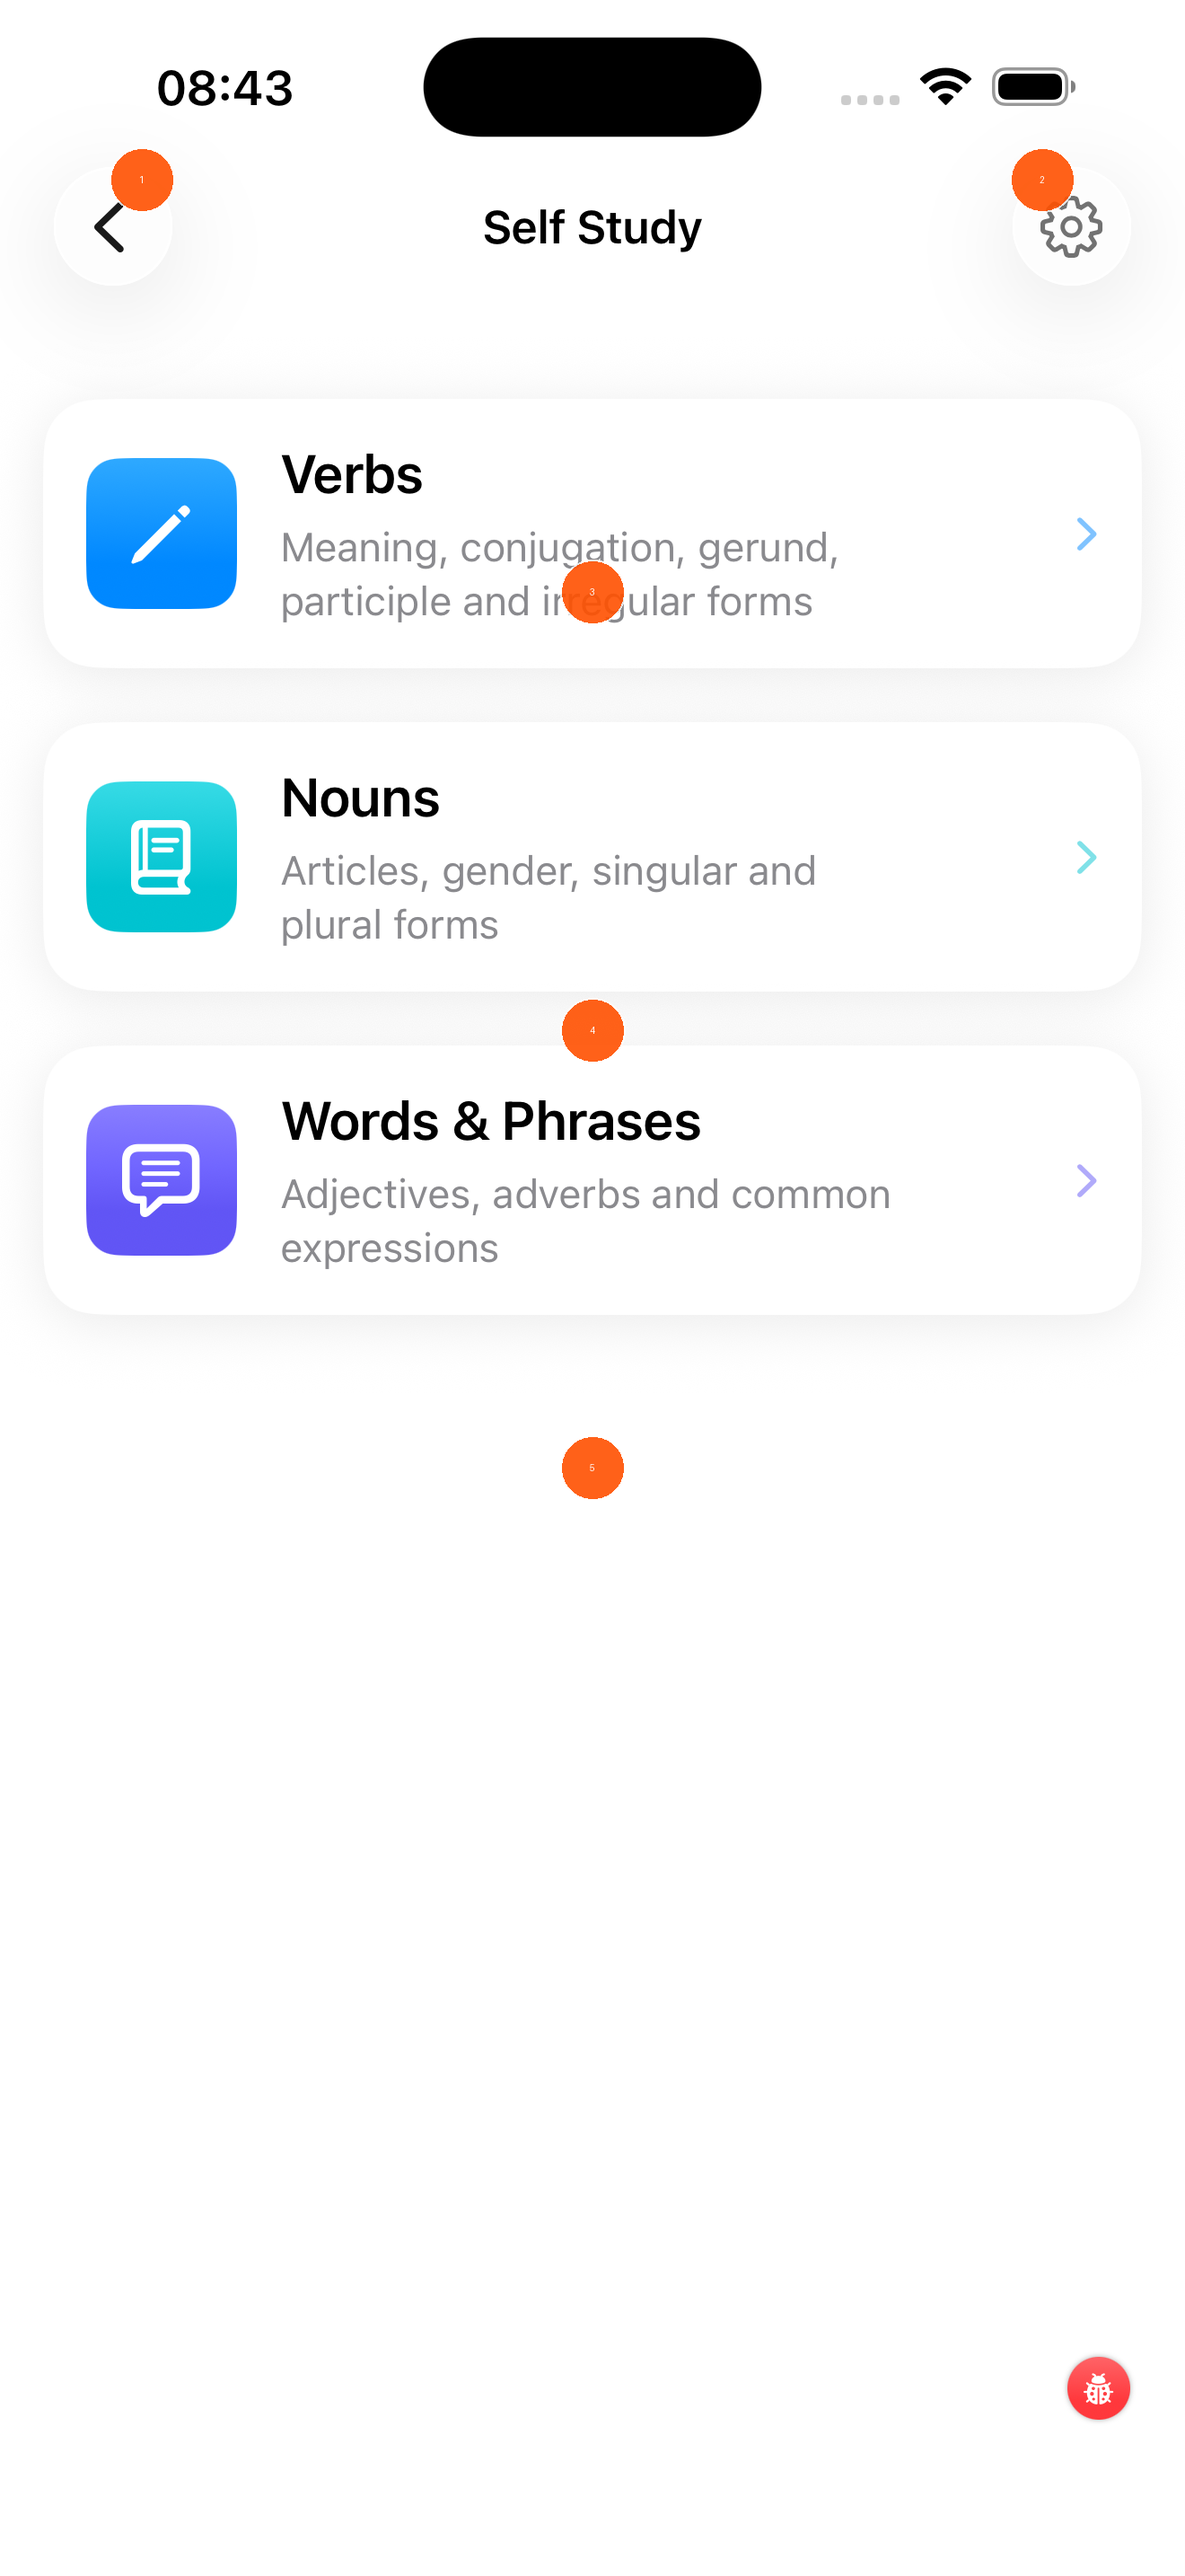
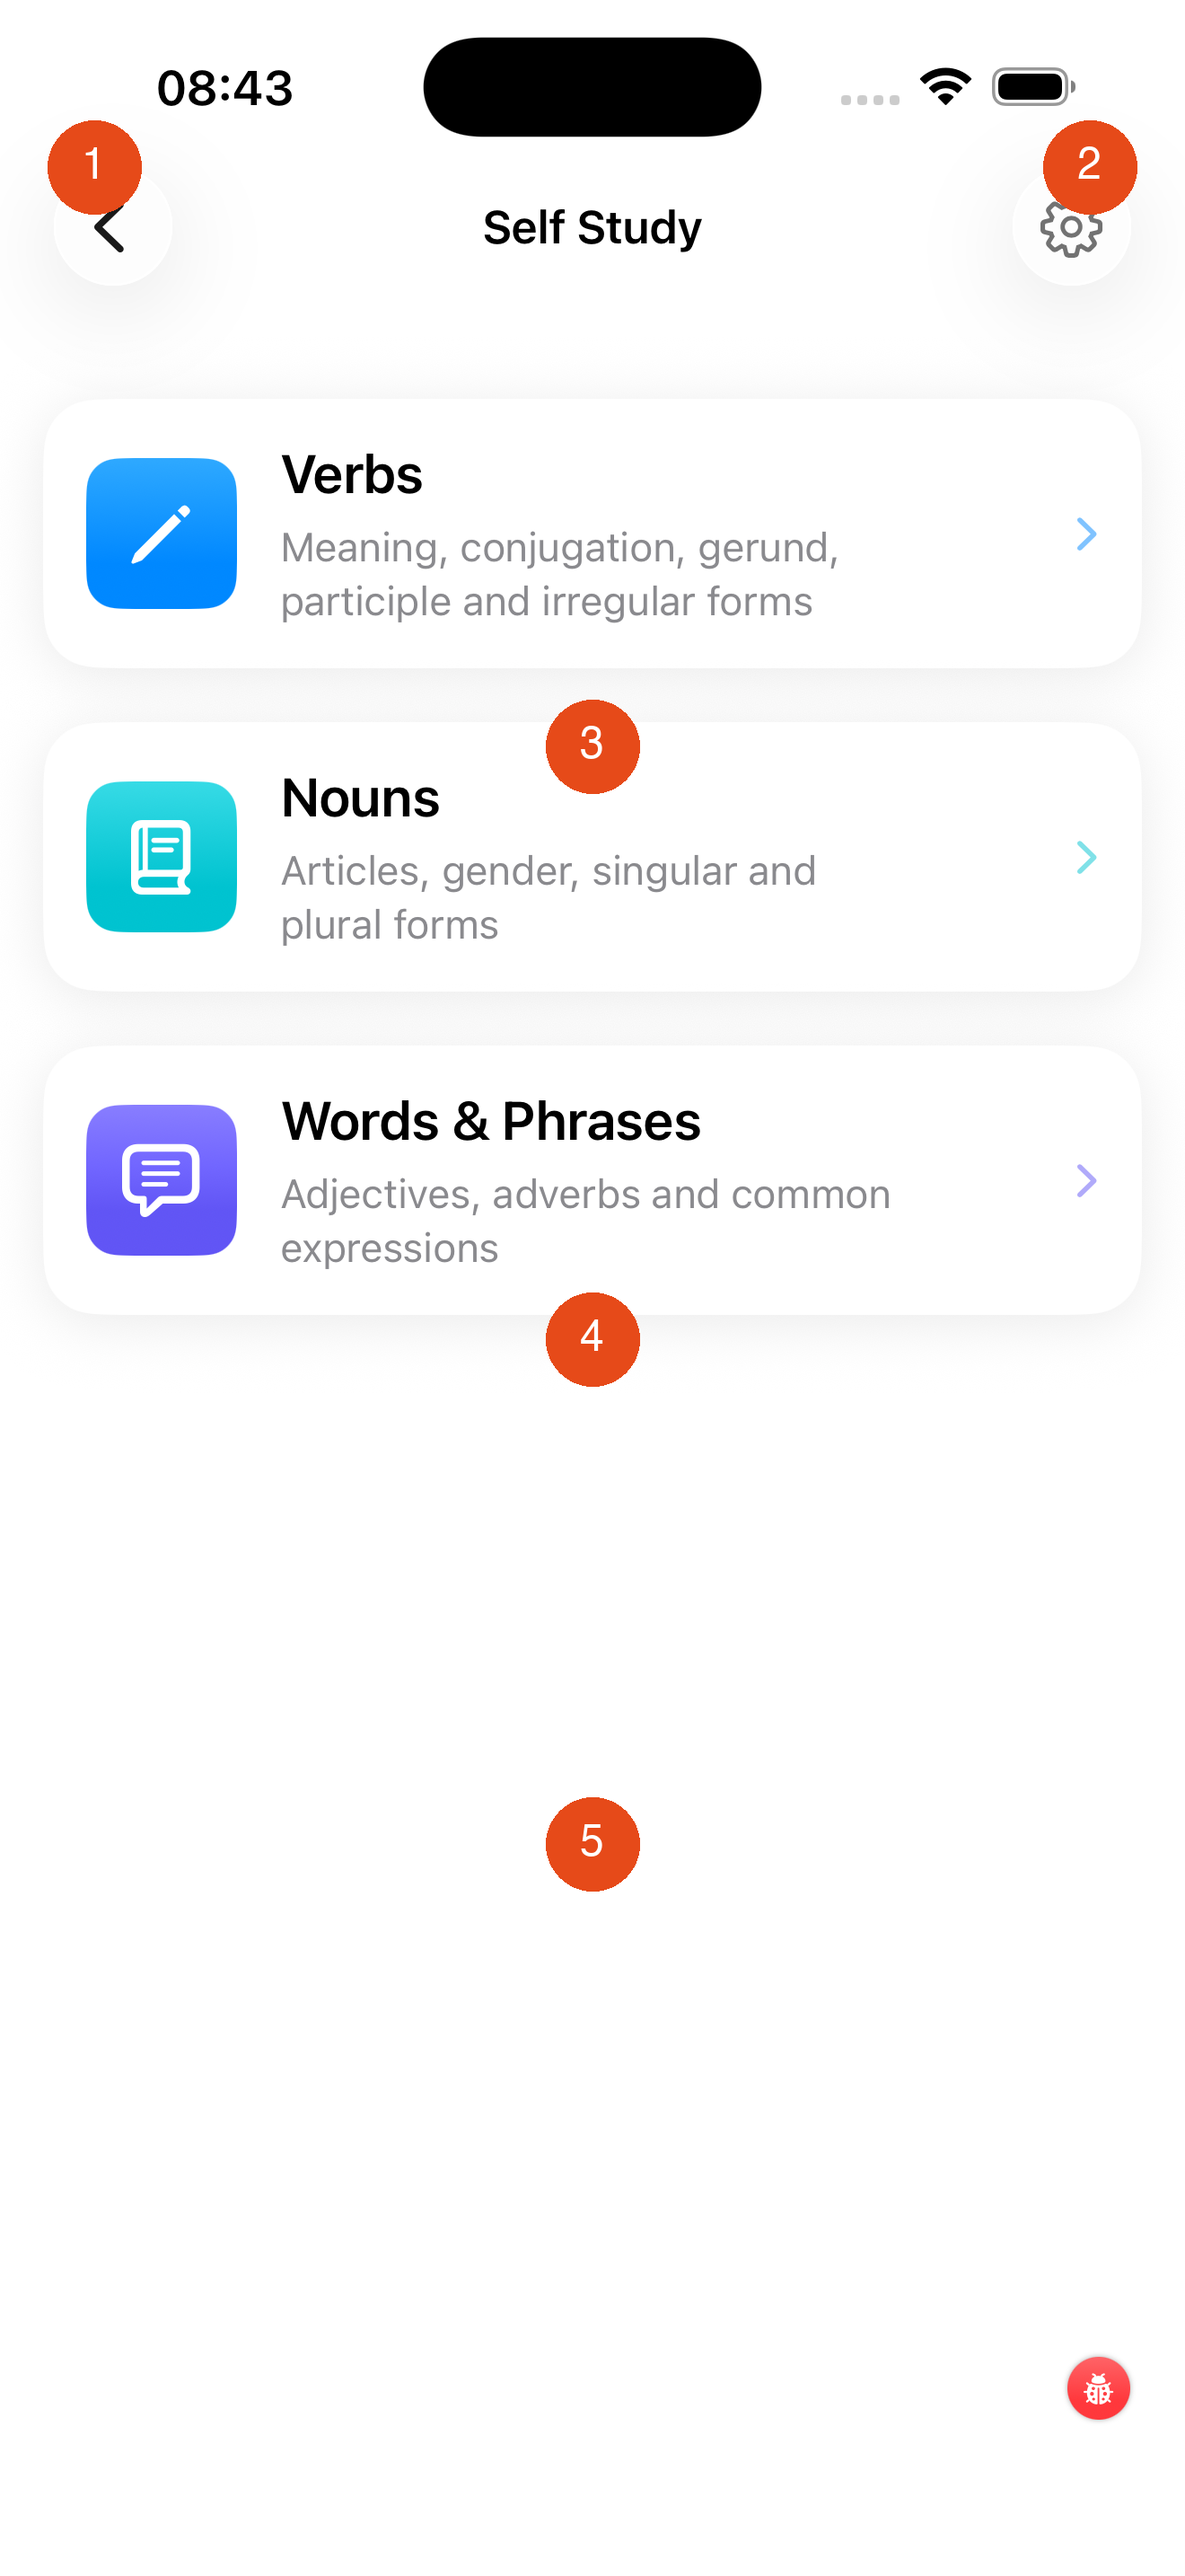
Link User Guide to GitBook, add custom domain

diff --git a/WORKFLOW.md b/WORKFLOW.md
@@ -1,0 +1,185 @@
+# Website Update Workflow
+
+This document describes the end-to-end process for updating the Spanish Coach website — from new screenshots through local testing to publishing on GitHub Pages.
+
+---
+
+## Overview
+
+```
+New screenshots
+      ↓
+Update annotate.py
+      ↓
+Run annotate.py  →  annotated images in docs/assets/images/guide/
+      ↓
+Update user guide pages (if needed)
+      ↓
+Test locally with mkdocs serve
+      ↓
+Commit & push → GitHub Actions rebuilds the site
+```
+
+---
+
+## Step 1 — Add new screenshots
+
+Place screenshots in the correct folder under:
+
+```
+~/Documents/spanish-coach-website/Screenshots/
+```
+
+Follow the existing folder structure, for example:
+
+```
+Screenshots/
+  Spanish Coach.png
+  Spanish Coach/
+    Self Study/
+      Self Study.png
+      Verbs/
+        Verbs Coach.png
+        Setup/
+          Select verbs/
+            ...
+```
+
+---
+
+## Step 2 — Update annotate.py
+
+Open:
+
+```
+/Users/hans/Xcode/Spanish Coach/UtilitiesForSpanishCoach/src/Pictures/annotate.py
+```
+
+**If adding a new screen**, add an entry to both `FILES` and `ANNOTATIONS`:
+
+```python
+# In FILES:
+"my-new-screen":
+    "Spanish Coach/Path/To/Screenshot.png",
+
+# In ANNOTATIONS:
+"my-new-screen": [
+    (0.08, 0.200, 1),   # describe what this points to
+    (0.92, 0.200, 2),   # describe what this points to
+],
+```
+
+**If a screenshot moved**, update the path in `FILES`.
+
+### Finding the right label positions
+
+Use the interactive label placer:
+
+1. Open in your browser:
+   ```
+   /Users/hans/Xcode/Spanish Coach/UtilitiesForSpanishCoach/src/Pictures/label-placer.html
+   ```
+2. Load the screenshot
+3. Click to place numbered labels
+4. Copy the output and paste it into the `ANNOTATIONS` dict in `annotate.py`
+
+---
+
+## Step 3 — Run annotate.py
+
+In Terminal:
+
+```bash
+cd "/Users/hans/Xcode/Spanish Coach/UtilitiesForSpanishCoach/src/Pictures"
+.venv/bin/python annotate.py
+```
+
+Annotated images are written to:
+
+```
+~/Documents/spanish-coach-website/docs/assets/images/guide/
+```
+
+The script prints `✓ filename.png` for each success and `✗ MISSING: path` for any source file it cannot find.
+
+---
+
+## Step 4 — Update the user guide (if needed)
+
+User guide pages live in:
+
+```
+~/Documents/spanish-coach-website/docs/user-guide/
+```
+
+If you added a new screen or changed label positions/count, update the corresponding `.md` file:
+
+- The `<img src="...">` tag should reference the correct output filename
+- The numbered list must match the labels in the image (same count, same order)
+
+If you added a brand new page, also add it to the `nav:` section in `mkdocs.yml`.
+
+---
+
+## Step 5 — Test locally
+
+Start the local preview server:
+
+```bash
+cd ~/Documents/spanish-coach-website
+mkdocs serve
+```
+
+Open your browser at **http://127.0.0.1:8000/spanish-coach-website/**
+
+The server live-reloads when you save any `.md` file. Images do **not** live-reload automatically — do **Cmd + Shift + R** in the browser after running `annotate.py` to force a refresh.
+
+Stop the server with **Ctrl + C**.
+
+---
+
+## Step 6 — Commit and push to GitHub
+
+When everything looks good locally:
+
+```bash
+cd ~/Documents/spanish-coach-website
+
+# Stage everything
+git add .
+
+# Commit with a descriptive message
+git commit -m "Describe what you changed"
+
+# Push
+git push origin main
+```
+
+GitHub Actions will automatically rebuild and deploy the site. Allow about 1–2 minutes, then check the live site at:
+
+**https://jjabakker.github.io/spanish-coach-website/**
+
+---
+
+## Quick reference
+
+| Task | Command |
+|---|---|
+| Run annotation script | `cd "/Users/hans/Xcode/Spanish Coach/UtilitiesForSpanishCoach/src/Pictures" && .venv/bin/python annotate.py` |
+| Start local preview | `cd ~/Documents/spanish-coach-website && mkdocs serve` |
+| Force browser refresh | **Cmd + Shift + R** |
+| Commit and push | `git add . && git commit -m "message" && git push origin main` |
+| Label placer tool | Open `label-placer.html` in browser |
+
+---
+
+## File locations
+
+| What | Where |
+|---|---|
+| Source screenshots | `~/Documents/spanish-coach-website/Screenshots/` |
+| Annotated output images | `~/Documents/spanish-coach-website/docs/assets/images/guide/` |
+| User guide pages | `~/Documents/spanish-coach-website/docs/user-guide/` |
+| Annotation script | `~/Xcode/Spanish Coach/UtilitiesForSpanishCoach/src/Pictures/annotate.py` |
+| Label placer | `~/Xcode/Spanish Coach/UtilitiesForSpanishCoach/src/Pictures/label-placer.html` |
+| Site config | `~/Documents/spanish-coach-website/mkdocs.yml` |

diff --git a/docs/user-guide/main-screen.md b/docs/user-guide/main-screen.md
@@ -1,17 +1,11 @@
-# Main Screen
+# Spanish Coach
 
-When you open Spanish Coach you land on the main screen. From here you choose your learning path.
+When you open the app  you land on this main screen. From here you choose your learning path.
 
 <div class="screenshot-annotated">
-<img src="../../assets/images/guide/spanish-coach-main-screen.png" alt="Spanish Coach Main Screen">
+<img src="../../assets/images/guide/spanish-coach.png" alt="Spanish Coach Main Screen">
 </div>
 
-1. **Progress & statistics** — tap to see your learning history, streaks, and performance charts
-2. **Learning history** — browse your past sessions and results
-3. **Settings** — adjust app preferences, notifications, and account details
-4. **Reference library** — quick access to reference material
-5. **Self Study** — practice at your own pace; choose which verbs, nouns, or phrases to focus on. Tap to enter.
-6. **Guided Lessons** — follow a structured path that builds vocabulary and grammar step by step. Tap to enter.
 
 ---
 
@@ -21,5 +15,11 @@ When you open Spanish Coach you land on the main screen. From here you choose yo
 |---|---|
 | **Self Study** | You know what you want to practise — specific verb tenses, topics, or vocabulary groups |
 | **Guided Lessons** | You want a structured programme that decides what to study next for you |
+
+
+
+At the top of the screen you see icons, on the right to change user setttings and to diplay online help, on the left icon(s) to review leaning performance data.
+
+
 
 [Next: Self Study →](self-study.md){ .md-button }

diff --git a/docs/user-guide/index.md b/docs/user-guide/index.md
@@ -1,17 +1,7 @@
 # User Guide
 
-Welcome to the Spanish Coach user guide. These pages walk you through every screen in the app with annotated screenshots so you know exactly what each button, swipe, and section does.
+The Spanish Coach User Guide is hosted on GitBook.
 
----
+[Open User Guide →](https://spanish-coach.gitbook.io/spanish-coach-docs/){ .md-button .md-button--primary }
 
-## Contents
-
-- [Main Screen](main-screen.md) — the two learning paths: Self Study and Guided Lessons
-- [Self Study](self-study.md) — choose between Verbs, Nouns, and Words & Phrases
-- [Verbs Coach](verbs-coach.md) — setup, study tools, and all test types
-- [Selecting Verbs](select-verbs.md) — filter and customise your verb set
-
----
-
-!!! tip "How to read the annotations"
-    Each screenshot has orange numbered circles **①②③** pointing to key UI elements. The numbered list below each screenshot explains what each one does.
+<script>window.location.href = "https://spanish-coach.gitbook.io/spanish-coach-docs/";</script>

diff --git a/docs/user-guide/self-study.md b/docs/user-guide/self-study.md
@@ -3,14 +3,13 @@
 The Self Study screen lets you choose what type of vocabulary or grammar you want to practise.
 
 <div class="screenshot-annotated">
-<img src="../../assets/images/guide/self-study-screen.png" alt="Self Study Screen">
+<img src="../../assets/images/guide/self-study.png" alt="Self Study Screen">
 </div>
 
-1. **Back** — returns to the main screen
-2. **Settings** — app and session preferences
-3. **Verbs** — practise verb meanings, conjugation, gerund, participle, and irregular forms. [Learn more →](verbs-coach.md)
-4. **Nouns** — practise articles, gender, singular and plural forms
-5. **Words & Phrases** — practise adjectives, adverbs, and common expressions
+1. **Verbs** — practise verb meanings, conjugation, gerund, participle, and irregular forms. [Learn more →](verbs-coach.md)
+2. **Nouns** — practise articles, gender, singular and plural forms
+3. **Words & Phrases** — practise adjectives, adverbs, and common expressions
+4. **Settings** — app and session preferences
 
 ---
 

diff --git a/docs/screenshots.md b/docs/screenshots.md
@@ -9,13 +9,13 @@ A visual tour of Spanish Coach — every major screen in the app.
 <div class="screenshot-gallery">
 
 <div class="screenshot-item">
-<img src="assets/images/guide/spanish-coach-main-screen.png" alt="Main Screen">
+<img src="assets/images/guide/spanish-coach.png" alt="Main Screen">
 <strong>Main Screen</strong>
 <p>Your starting point — tap any section to begin studying.</p>
 </div>
 
 <div class="screenshot-item">
-<img src="assets/images/guide/self-study-screen.png" alt="Self Study">
+<img src="assets/images/guide/self-study.png" alt="Self Study">
 <strong>Self Study</strong>
 <p>Choose Verbs, Nouns, Words & Phrases, or Guided Lessons.</p>
 </div>
